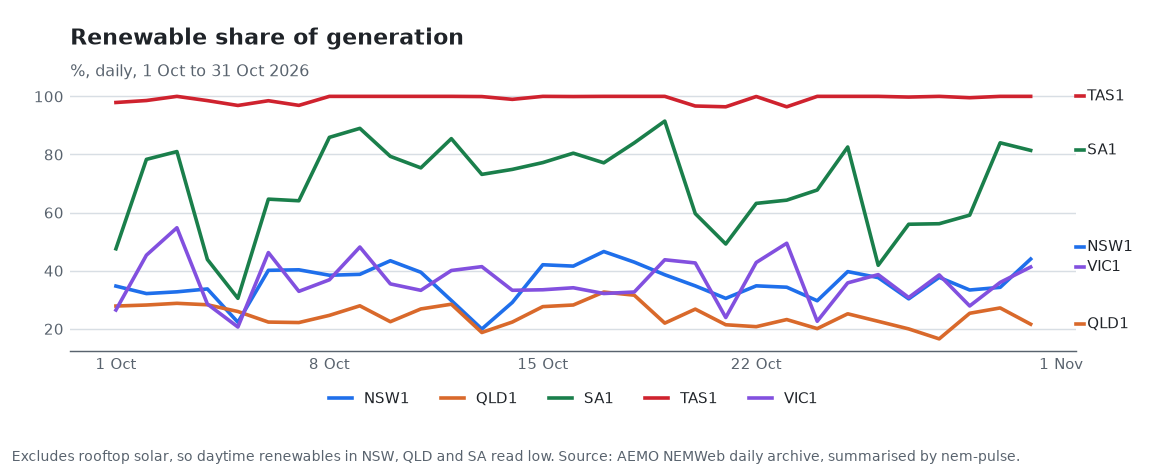
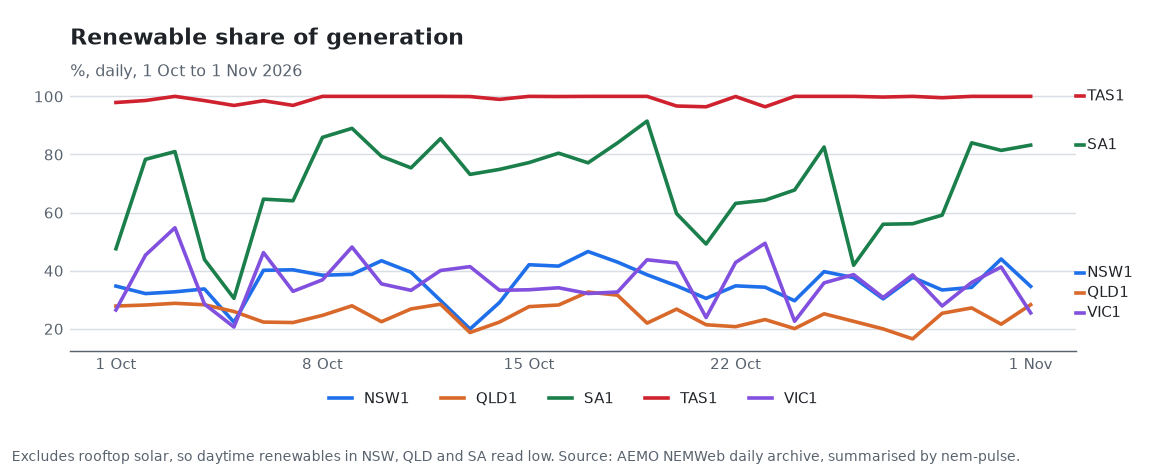
data: 2026-11-03

diff --git a/README.md b/README.md
@@ -15,19 +15,20 @@ I built it to try the "git scraping" pattern on grid data: the repository is the
 ## Latest
 
 <!-- PULSE:START -->
-_Updated for 2026-10-31 (NEM time)._
+_Updated for 2026-11-01 (NEM time)._
 
 | Region | Avg price | Renewables | Intensity | Negative price intervals |
 |---|---:|---:|---:|---:|
-| NSW1 | $84/MWh | 44% | 469 g/kWh | 0 |
-| QLD1 | $79/MWh | 22% | 680 g/kWh | 0 |
-| VIC1 | $22/MWh | 41% | 670 g/kWh | 126 |
-| SA1 | -$9/MWh | 81% | 71 g/kWh | 128 |
-| TAS1 | $27/MWh | 100% | 0 g/kWh | 106 |
-| NEM | $62/MWh | 40% | 556 g/kWh | 0 |
+| NSW1 | $85/MWh | 35% | 531 g/kWh | 0 |
+| QLD1 | $80/MWh | 28% | 615 g/kWh | 0 |
+| VIC1 | $74/MWh | 25% | 839 g/kWh | 3 |
+| SA1 | $72/MWh | 83% | 43 g/kWh | 7 |
+| TAS1 | $76/MWh | 100% | 0 g/kWh | 2 |
+| NEM | $80/MWh | 36% | 588 g/kWh | 0 |
 
 ### Recent records
 
+- **2026-11-01** QLD1: highest solar share (17.7%, previous best 17.0%)
 - **2026-10-29** NEM: highest solar share (16.6%, previous best 14.5%)
 - **2026-10-29** NSW1: highest solar share (25.1%, previous best 23.4%)
 - **2026-10-29** VIC1: highest solar share (12.3%, previous best 10.8%)
@@ -37,7 +38,6 @@ _Updated for 2026-10-31 (NEM time)._
 - **2026-10-22** SA1: highest daily peak demand (1,802.3 MW, previous best 1,627.3 MW)
 - **2026-10-22** VIC1: highest daily peak demand (7,300.9 MW, previous best 6,847.7 MW)
 - **2026-10-20** NSW1: lowest price (-10.5 $/MWh, previous best -9.6 $/MWh)
-- **2026-10-19** SA1: most intervals with a negative price (189 intervals, previous best 164 intervals)
 <!-- PULSE:END -->
 
 The AEMO daily archive is about two days behind the grid, so the newest day here is two days old. I found this when the first scheduled run asked for "yesterday" and got a 404.
